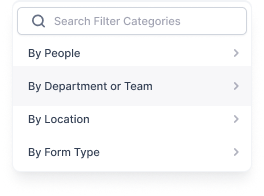
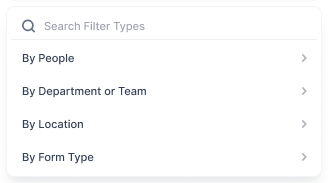
fix(blend-metrics): equal menus columns, re-crop filter, split confirm annots
Menus & Flyouts: the weighted tracks (2.4/2.4/1.2) held every image to one
shared scale, which was defensible on paper but left the filter dropdown
visibly smaller than the other two. Equal columns instead — all three now
render at 424px.

The filter asset could not carry that size: at 264px native it would have
upscaled 161%. Re-cropped it from source (Workflow wireframes/Filter Types
Dropdown.png) at native resolution: 264x196 -> 328x183, so the upscale
drops to 129%.

That source is a Figma variant sheet with a purple dashed frame, which is
never shipped. The crop clears it — verified 0 purple and 0 dark pixels.
The first crop attempt was black-edged because the PNG is RGBA and
convert('RGB') composites transparency to black; it now composites onto
white first.

Options Menu & Confirmations: both cards sat on the left, so the second
one's leader reached the left-hand "Delete this trigger?" while its card
sat far below it — it read as pointing at nothing. Moved it to the right,
pointing at "Publish this workflow?" (x 72-95%, y 72.6%).

Verified: left dot 29px off the options menu edge, right dot 29px off the
publish confirm edge, both level with their target.

diff --git a/public/case-study.css b/public/case-study.css
@@ -2166,15 +2166,14 @@ div.cs-annotated-img svg {
   max-width: 100%;
 }
 
-/* Menus & Flyouts: three small native assets (692 / 692 / 264 wide). Held to a
-   single shared scale inside the 1120px copy column, every image lands at 65%
-   and the filter dropdown renders 173px wide — its labels stop being readable.
-   The band is already 100% full, so nothing grows without widening it. Two
-   changes: let the media run wider than the copy, and stop giving the filter a
-   share of its raw pixel ratio, since it is the one asset with no headroom. */
+/* Menus & Flyouts: three columns of equal width. The weighted tracks held every
+   image to one shared scale, which made sense on paper but left the filter
+   dropdown visibly smaller than the other two in the row. Equal columns read
+   better even though the filter is a smaller component natively — its asset was
+   re-cropped from source (264 -> 326 wide) so it holds up at this size. */
 .cs-dialog-grid--menus,
 .cs-component-showcase--full .cs-dialog-grid--menus {
-  grid-template-columns: 2.4fr 2.4fr 1.2fr;
+  grid-template-columns: repeat(3, 1fr);
   gap: 24px;
   align-items: start;
   justify-items: stretch;